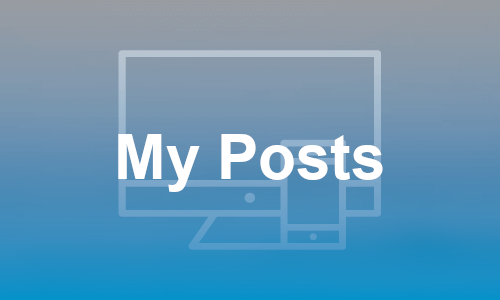
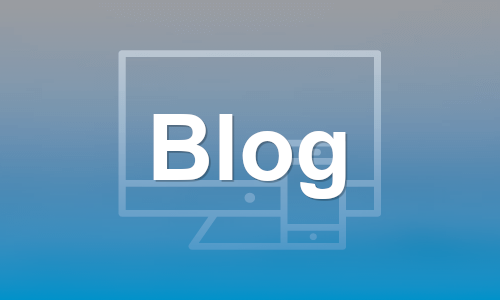
updated menu

Changed region(s): [[0.21, 0.36, 0.78, 0.69]]

diff --git a/404.html b/404.html
@@ -131,7 +131,7 @@
             </li><li class="masthead__menu-item">
               <a href="/projects/" title="What I do when I feel productive!">Projects</a>
             </li><li class="masthead__menu-item">
-              <a href="/posts/" title="Check out what I write about.. Stuff!">Posts</a>
+              <a href="/posts/" title="Check out what I write about.. Stuff!">Blog</a>
             </li><li class="masthead__menu-item">
               <a href="/resources/" title="Learn everything about Data Science!">Resources</a>
             </li><li class="masthead__menu-item">

diff --git a/I-wish-I-had-more-posts/index.html b/I-wish-I-had-more-posts/index.html
@@ -133,7 +133,7 @@
             </li><li class="masthead__menu-item">
               <a href="/projects/" title="What I do when I feel productive!">Projects</a>
             </li><li class="masthead__menu-item">
-              <a href="/posts/" title="Check out what I write about.. Stuff!">Posts</a>
+              <a href="/posts/" title="Check out what I write about.. Stuff!">Blog</a>
             </li><li class="masthead__menu-item">
               <a href="/resources/" title="Learn everything about Data Science!">Resources</a>
             </li><li class="masthead__menu-item">

diff --git a/about/index.html b/about/index.html
@@ -131,7 +131,7 @@
             </li><li class="masthead__menu-item">
               <a href="/projects/" title="What I do when I feel productive!">Projects</a>
             </li><li class="masthead__menu-item">
-              <a href="/posts/" title="Check out what I write about.. Stuff!">Posts</a>
+              <a href="/posts/" title="Check out what I write about.. Stuff!">Blog</a>
             </li><li class="masthead__menu-item">
               <a href="/resources/" title="Learn everything about Data Science!">Resources</a>
             </li><li class="masthead__menu-item">

diff --git a/covid19.html b/covid19.html
@@ -135,7 +135,7 @@
             </li><li class="masthead__menu-item">
               <a href="/projects/" title="What I do when I feel productive!">Projects</a>
             </li><li class="masthead__menu-item">
-              <a href="/posts/" title="Check out what I write about.. Stuff!">Posts</a>
+              <a href="/posts/" title="Check out what I write about.. Stuff!">Blog</a>
             </li><li class="masthead__menu-item">
               <a href="/resources/" title="Learn everything about Data Science!">Resources</a>
             </li><li class="masthead__menu-item">

diff --git a/happiness.html b/happiness.html
@@ -135,7 +135,7 @@
             </li><li class="masthead__menu-item">
               <a href="/projects/" title="What I do when I feel productive!">Projects</a>
             </li><li class="masthead__menu-item">
-              <a href="/posts/" title="Check out what I write about.. Stuff!">Posts</a>
+              <a href="/posts/" title="Check out what I write about.. Stuff!">Blog</a>
             </li><li class="masthead__menu-item">
               <a href="/resources/" title="Learn everything about Data Science!">Resources</a>
             </li><li class="masthead__menu-item">

diff --git a/index.html b/index.html
@@ -133,7 +133,7 @@
             </li><li class="masthead__menu-item">
               <a href="/projects/" title="What I do when I feel productive!">Projects</a>
             </li><li class="masthead__menu-item">
-              <a href="/posts/" title="Check out what I write about.. Stuff!">Posts</a>
+              <a href="/posts/" title="Check out what I write about.. Stuff!">Blog</a>
             </li><li class="masthead__menu-item">
               <a href="/resources/" title="Learn everything about Data Science!">Resources</a>
             </li><li class="masthead__menu-item">

diff --git a/posts/index.html b/posts/index.html
@@ -131,7 +131,7 @@
             </li><li class="masthead__menu-item">
               <a href="/projects/" title="What I do when I feel productive!">Projects</a>
             </li><li class="masthead__menu-item">
-              <a href="/posts/" title="Check out what I write about.. Stuff!">Posts</a>
+              <a href="/posts/" title="Check out what I write about.. Stuff!">Blog</a>
             </li><li class="masthead__menu-item">
               <a href="/resources/" title="Learn everything about Data Science!">Resources</a>
             </li><li class="masthead__menu-item">

diff --git a/projects/index.html b/projects/index.html
@@ -131,7 +131,7 @@
             </li><li class="masthead__menu-item">
               <a href="/projects/" title="What I do when I feel productive!">Projects</a>
             </li><li class="masthead__menu-item">
-              <a href="/posts/" title="Check out what I write about.. Stuff!">Posts</a>
+              <a href="/posts/" title="Check out what I write about.. Stuff!">Blog</a>
             </li><li class="masthead__menu-item">
               <a href="/resources/" title="Learn everything about Data Science!">Resources</a>
             </li><li class="masthead__menu-item">

diff --git a/resources/Command-Line/index.html b/resources/Command-Line/index.html
@@ -131,7 +131,7 @@
             </li><li class="masthead__menu-item">
               <a href="/projects/" title="What I do when I feel productive!">Projects</a>
             </li><li class="masthead__menu-item">
-              <a href="/posts/" title="Check out what I write about.. Stuff!">Posts</a>
+              <a href="/posts/" title="Check out what I write about.. Stuff!">Blog</a>
             </li><li class="masthead__menu-item">
               <a href="/resources/" title="Learn everything about Data Science!">Resources</a>
             </li><li class="masthead__menu-item">

diff --git a/resources/Data-Analysis/index.html b/resources/Data-Analysis/index.html
@@ -131,7 +131,7 @@
             </li><li class="masthead__menu-item">
               <a href="/projects/" title="What I do when I feel productive!">Projects</a>
             </li><li class="masthead__menu-item">
-              <a href="/posts/" title="Check out what I write about.. Stuff!">Posts</a>
+              <a href="/posts/" title="Check out what I write about.. Stuff!">Blog</a>
             </li><li class="masthead__menu-item">
               <a href="/resources/" title="Learn everything about Data Science!">Resources</a>
             </li><li class="masthead__menu-item">

diff --git a/resources/Data-Visualization/index.html b/resources/Data-Visualization/index.html
@@ -131,7 +131,7 @@
             </li><li class="masthead__menu-item">
               <a href="/projects/" title="What I do when I feel productive!">Projects</a>
             </li><li class="masthead__menu-item">
-              <a href="/posts/" title="Check out what I write about.. Stuff!">Posts</a>
+              <a href="/posts/" title="Check out what I write about.. Stuff!">Blog</a>
             </li><li class="masthead__menu-item">
               <a href="/resources/" title="Learn everything about Data Science!">Resources</a>
             </li><li class="masthead__menu-item">

diff --git a/resources/Datasets/index.html b/resources/Datasets/index.html
@@ -131,7 +131,7 @@
             </li><li class="masthead__menu-item">
               <a href="/projects/" title="What I do when I feel productive!">Projects</a>
             </li><li class="masthead__menu-item">
-              <a href="/posts/" title="Check out what I write about.. Stuff!">Posts</a>
+              <a href="/posts/" title="Check out what I write about.. Stuff!">Blog</a>
             </li><li class="masthead__menu-item">
               <a href="/resources/" title="Learn everything about Data Science!">Resources</a>
             </li><li class="masthead__menu-item">
